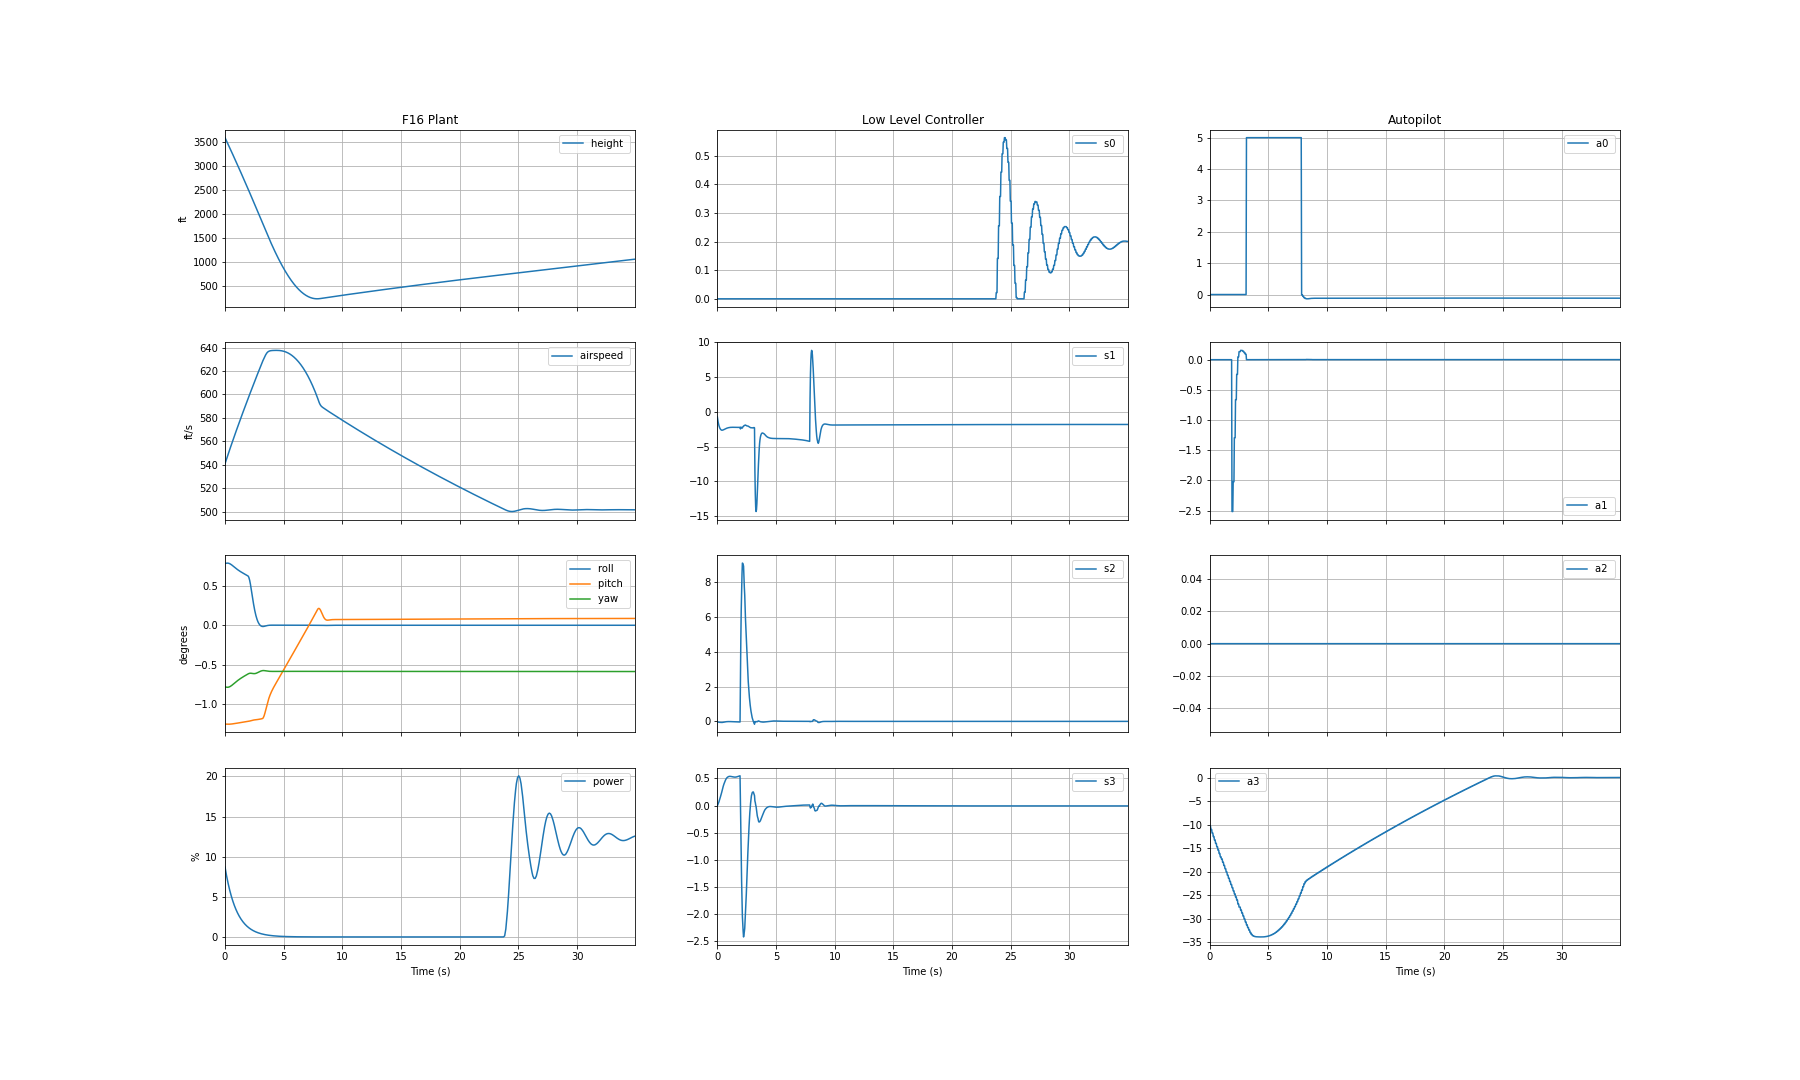
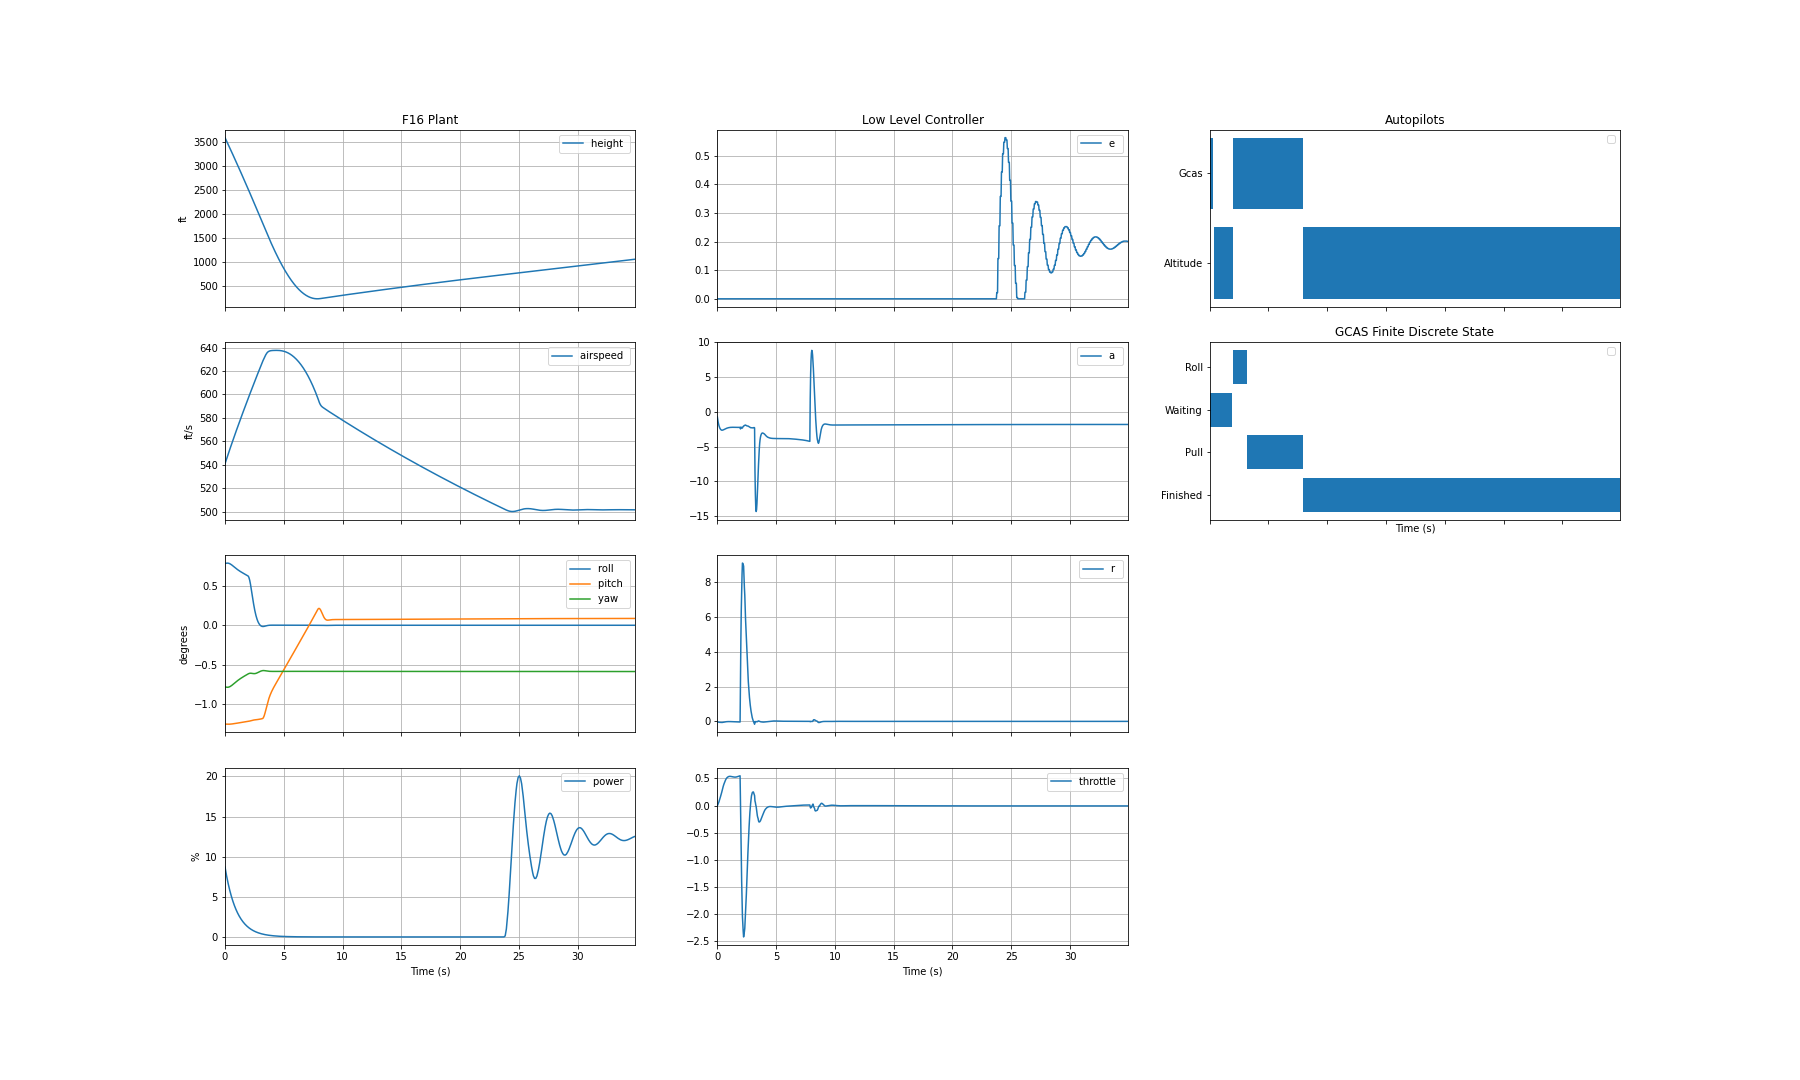
update gcas image in README.md

diff --git a/new_csaf/csaf_f16/plot.py b/new_csaf/csaf_f16/plot.py
@@ -137,7 +137,7 @@ def plot_shield(trajs):
     plot_component(ax[3][1], trajs, "llc", "outputs", 3, "throttle ()")
 
     ax[0][2].set_title("Autopilots")
-    plot_component(ax[0][2], trajs, "monitor_ap", "outputs", 0, "autopilot selected ()", do_schedule=True)
+    plot_component(ax[0][2], trajs, "monitor", "outputs", 0, "autopilot selected ()", do_schedule=True)
     plot_component(ax[1][2], trajs, "autopilot", "fdas", 0, "GCAS State ()", do_schedule=True)
     ax[1][2].set_title("GCAS Finite Discrete State")
     ax[2][2].axis('off')

diff --git a/new_csaf/README.md b/new_csaf/README.md
@@ -23,7 +23,7 @@ CSAF is a framework to minimize the effort required to evaluate, implement, and 
 Controllers, subsystems and plants are implemented as a collection of components.
 Below is an example of a topology graph of F16 system with GCAS autopilot.
 
-![f16_with_gcas](docs/img/f16_gcas_plot.png)
+![f16_components](docs/img/f16_component_topology.png)
 
 ## Quick Start
 
@@ -32,16 +32,6 @@ Below is an example of a topology graph of F16 system with GCAS autopilot.
 CSAF runs inside a [Docker container](https://www.docker.com/), and in order to use CSAF, you first need to [install docker](https://docs.docker.com/engine/install/). CSAF has been tested on Linux (Ubuntu 18.04 and 20.04) and OS X, but should run on any nix-like system that runs docker. CSAF can be also run natively on your host machine, but this option is recommended only for the developers and isn't officially supported.
 
 ![csaf_quickstart](docs/img/csaf_quickstart.png)
-
-### Running CSAF
-
-## Tests
-
-CSAF unit and integration tests use the pytest framework. After installing the [mypy plugin](https://pypi.org/project/pytest-mypy/),
-static tests can be added by adding the switch
-```python
-pytest --mypy -s tests
-```
 
 ## Examples
 CSAF currently contains a number of examples, including the F-16 shown below. These examples are packaged into component
@@ -54,6 +44,8 @@ To run a F16 system simulation, run
 ```
 $ python -m csaf_f16 --time-max 30.0 --system F16Simple  
 ```
+
+![f16_components](docs/img/f16_gcas_plot.png)
 
 The library CLI options are
 ```
@@ -85,8 +77,13 @@ To start CSAF in the notebook mode, go to the `notebooks` folder and run
 jupyter notebook
 ```
 
-## Goal configuration
+## Tests
 
+CSAF unit and integration tests use the pytest framework. After installing the [mypy plugin](https://pypi.org/project/pytest-mypy/),
+static tests can be added by adding the switch
+```python
+pytest --mypy -s tests
+```
 
 ## Development
 `CONTRIBUTING.md` contains CSAF development guidelines, please familiarize yourself with the guidelines before opening a 
